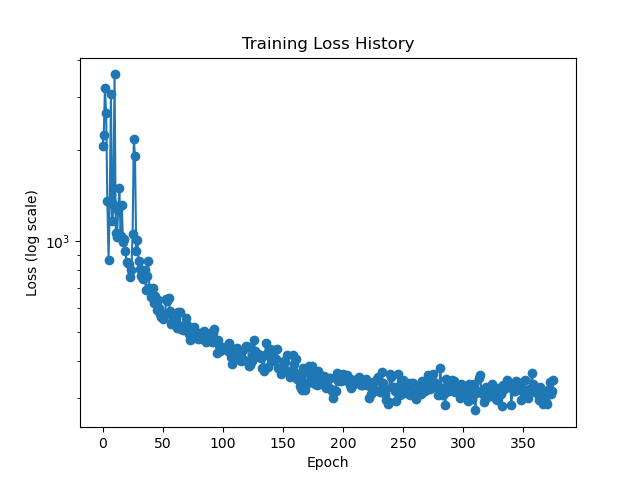
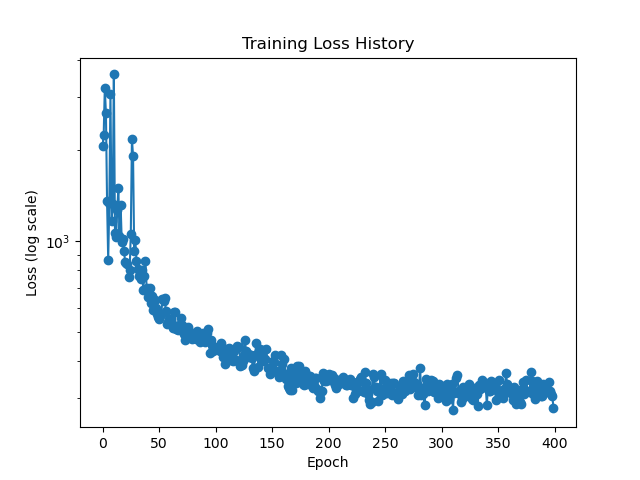
2503132333

diff --git a/250309/nivolumab.py b/250309/nivolumab.py
@@ -21,7 +21,7 @@ BATCH_SIZE = 128
 NUM_WORKERS = 8
 
 PIN_MEMORY = True
-LEARNING_RATE = 1e-5
+LEARNING_RATE = 1e-7
 STATIC_INPUT_DIM = 7
 STATIC_HIDDEN_DIM = 16
 ODE_HIDDEN_DIM = 16
